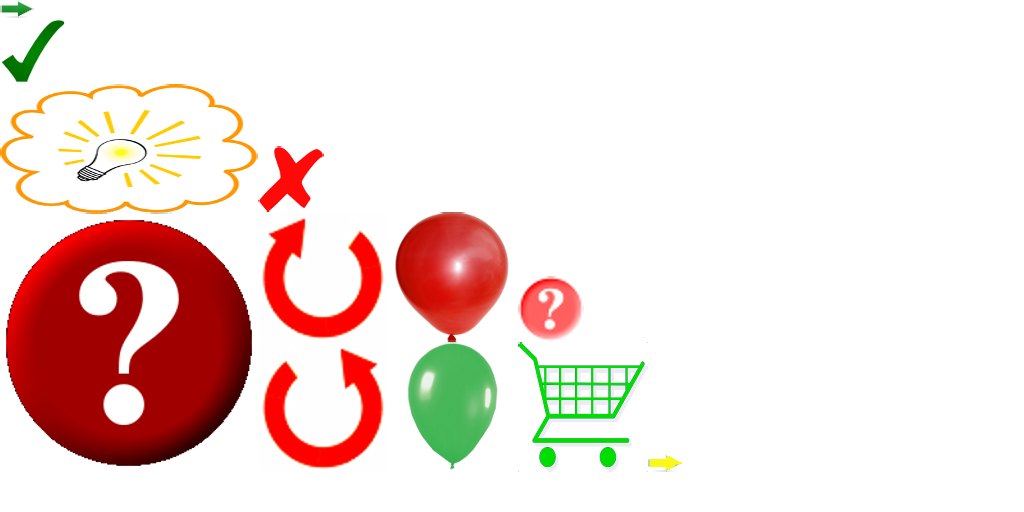
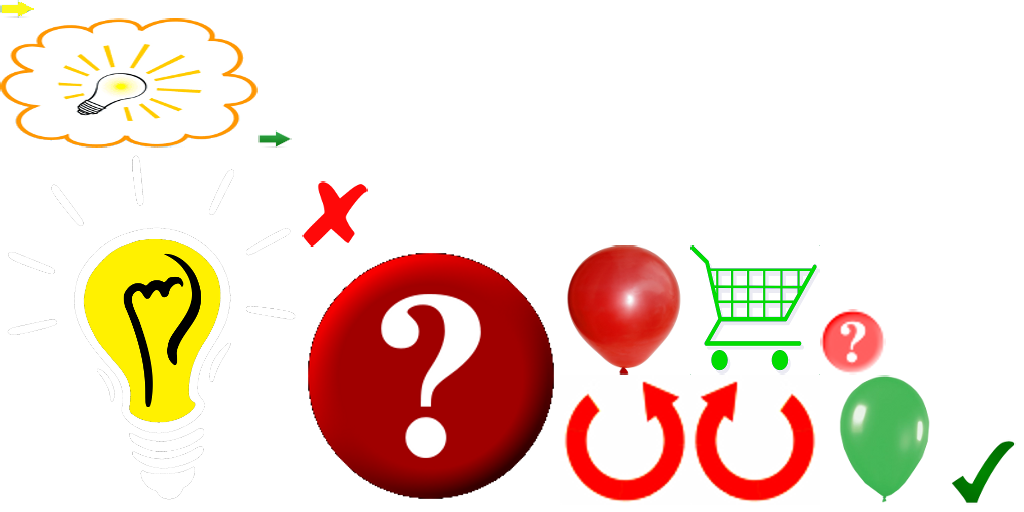
abstractor in progress

diff --git a/ScienceEngine/src/com/mazalearn/scienceengine/tutor/Abstractor.java b/ScienceEngine/src/com/mazalearn/scienceengine/tutor/Abstractor.java
@@ -65,21 +65,10 @@ public class Abstractor extends AbstractTutor {
   private void createConfigTable(IScience2DModel science2DModel, Skin skin) {
     configTable = new Table(skin);
     configTable.setName("Configs");
-    ScreenComponent.scalePosition(configTable, 150, 325);
+    ScreenComponent.scalePosition(configTable, 150, 380);
     this.addActor(configTable);
 
-    TextureRegion shoppingCartTexture = ScienceEngine.getTextureRegion("shoppingcart");
-    // TODO: Create cart as a screencomponent
-    final Image cart = new Image(shoppingCartTexture);
-    cart.setSize(ScreenComponent.ShoppingCart.getWidth(), ScreenComponent.ShoppingCart.getHeight());
-    cart.setPosition(ScreenComponent.ShoppingCart.getX(), 
-        ScreenComponent.ShoppingCart.getY());
-    cart.addListener(new ClickListener() {
-      public void clicked (InputEvent event, float x, float y) {
-        configTable.setVisible(!configTable.isVisible());
-      }      
-    });
-    this.addActor(cart);
+    TextureRegion ideaTexture = ScienceEngine.getTextureRegion("idea");
     List<CheckBox> checkBoxList = new ArrayList<CheckBox>();
     for (final IModelConfig<?> config: science2DModel.getAllConfigs().values()) {
       if (config.isPossible() && config.isPermitted() && config.getBody() != null) {
@@ -107,9 +96,10 @@ public class Abstractor extends AbstractTutor {
     }
     // Add lives to table
     for (int i = 0; i < 3; i++) {
-      life[i] = new Image(shoppingCartTexture);
-      life[i].setSize(ScreenComponent.ShoppingCart.getWidth() / 2, ScreenComponent.ShoppingCart.getHeight() / 2);
-      configTable.add(life[i]).width(ScreenComponent.ShoppingCart.getWidth() / 2);
+      life[i] = new Image(ideaTexture);
+      life[i].setSize(ScreenComponent.Idea.getWidth() / 2,
+          ScreenComponent.Idea.getHeight() / 2);
+      configTable.add(life[i]).width(ScreenComponent.Idea.getWidth() / 2);
     }
     configTable.add(createDoneButton(skin)).fill();
     configTable.row();

diff --git a/ScienceEngine/src/com/mazalearn/scienceengine/ScreenComponent.java b/ScienceEngine/src/com/mazalearn/scienceengine/ScreenComponent.java
@@ -20,7 +20,7 @@ public enum ScreenComponent implements IComponentType, IHelpComponent {
   GoButtonUp(XAlign.LEFT, 10, YAlign.MIDDLE, 0, 60, 60, -1, Color.CLEAR, false, true),
   GoButtonDown(XAlign.CENTER, 0, YAlign.TOP, -30, 0, 0, -1, Color.CLEAR, false, false),
   Scoreboard(XAlign.RIGHT, -140, YAlign.TOP, -15, 0, 0, -1, Color.BLACK, false, false),
-  ShoppingCart(XAlign.LEFT, 40, YAlign.TOP, -50, 50, 50, -1, Color.BLACK, false, false),
+  Idea(XAlign.LEFT, 40, YAlign.TOP, -50, 50, 60, -1, Color.BLACK, false, false),
   NextButton(XAlign.CENTER, 108, YAlign.TOP, -70, 0, 0, -1, Color.CLEAR, false, false), 
   Explanation(XAlign.LEFT, 10, YAlign.MIDDLE, 0, 0, 0, -1, Color.CLEAR, false, false), 
   Goal(XAlign.CENTER, 0, YAlign.TOP, -30, 550, 30, -1, Color.YELLOW, false, false),
